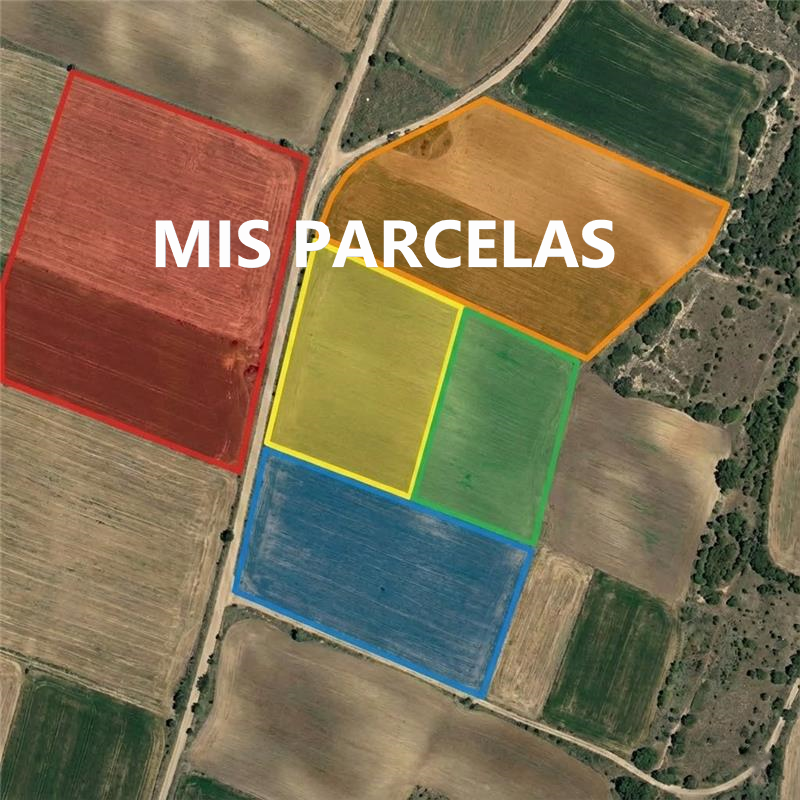
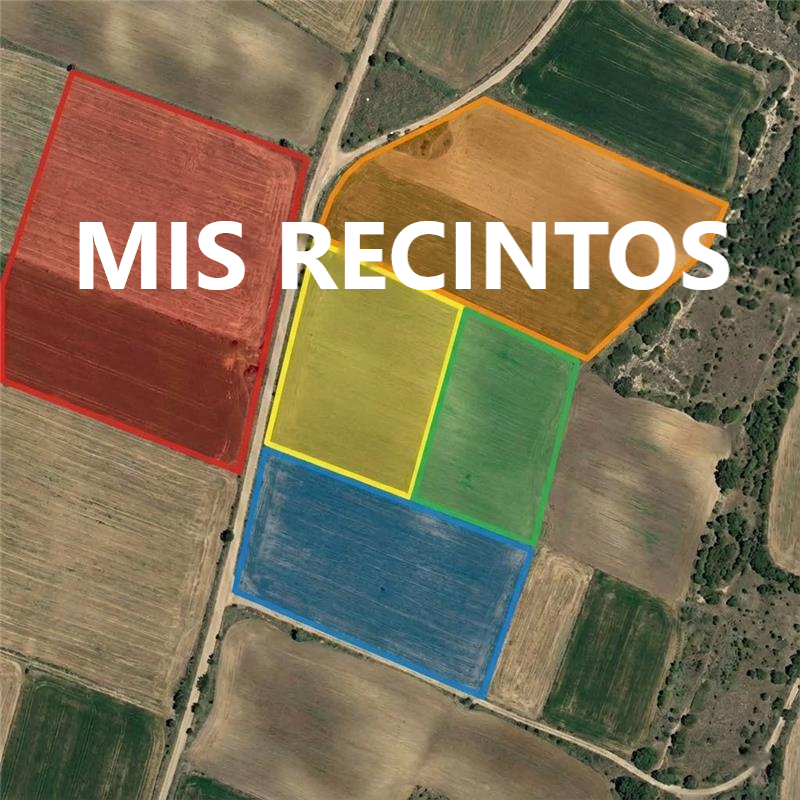
Cambio solicitud parcela (comentado) y cambio imagen mis recintos

Changed region(s): [[0.0938, 0.2188, 1.0, 0.4062]]

diff --git a/src/webapp/api/routes.py b/src/webapp/api/routes.py
@@ -69,9 +69,6 @@ def crear_solicitud_recinto():
             recinto=recinto,
         )
 
-        
-
-        # ✅ Corregido: manejo apropiado de NULL
         if agregado is not None:
             q = q.filter(Recinto.agregado == agregado)
         else:
@@ -105,6 +102,20 @@ def crear_solicitud_recinto():
             "error": "Ya has solicitado este recinto",
             "code": "ya_solicitada",
         }), 400
+
+
+        # ✅ Evitar que otro usuario solicite el mismo recinto si ya hay una solicitud pendiente
+        #existing_any_pending = Solicitudrecinto.query.filter_by(
+        #    id_recinto=recinto_obj.id_recinto,
+         #   estado="pendiente",
+        #).first()
+
+        #if existing_any_pending:
+          #  return jsonify({
+             #   "ok": False,
+               # "error": "Este recinto ya está solicitado por otro usuario",
+               #"code": "ya_solicitado_por_otro",
+            #}), 400
 
     solicitud = Solicitudrecinto(
         id_usuario=current_user.id_usuario,
